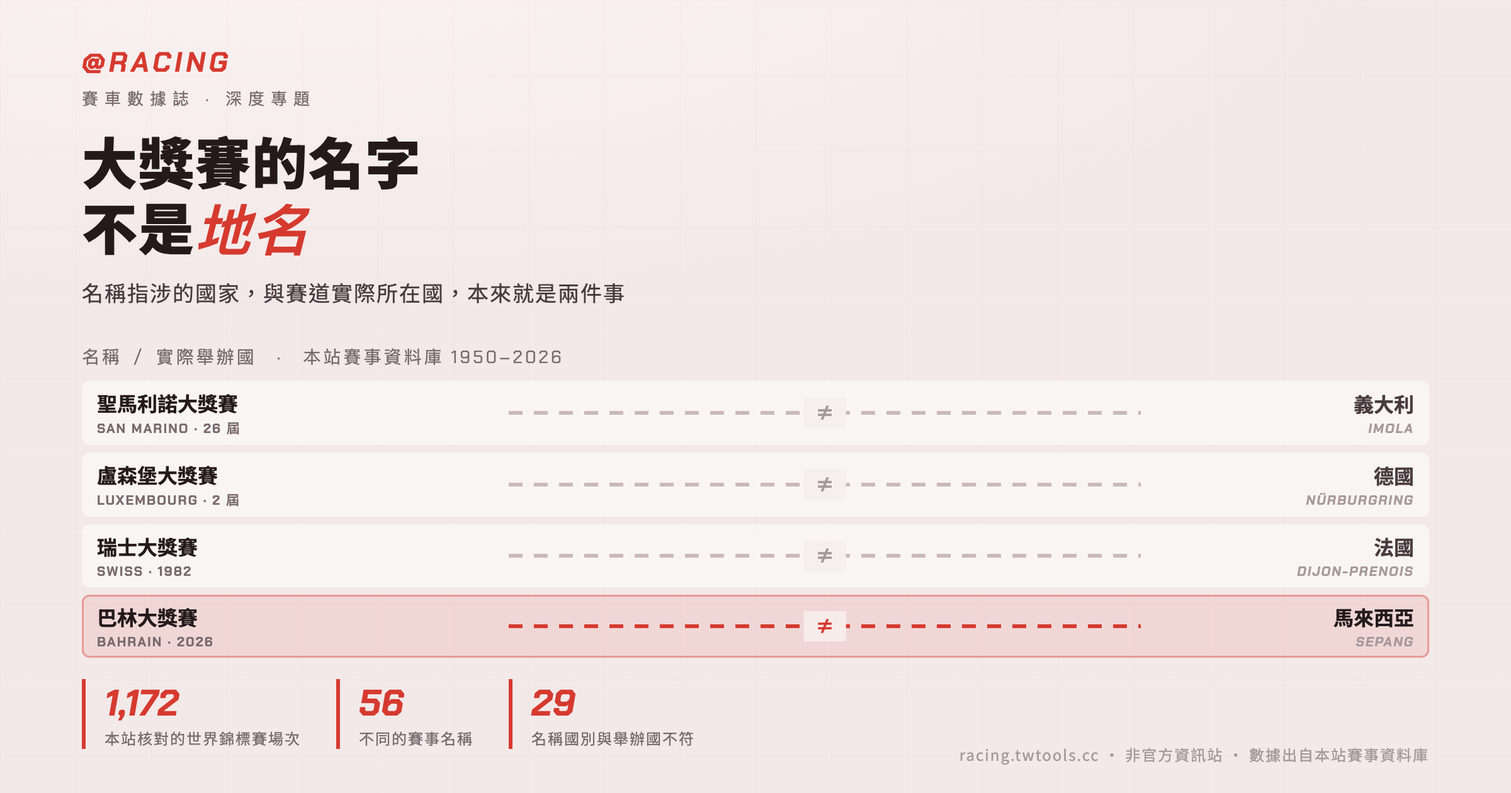
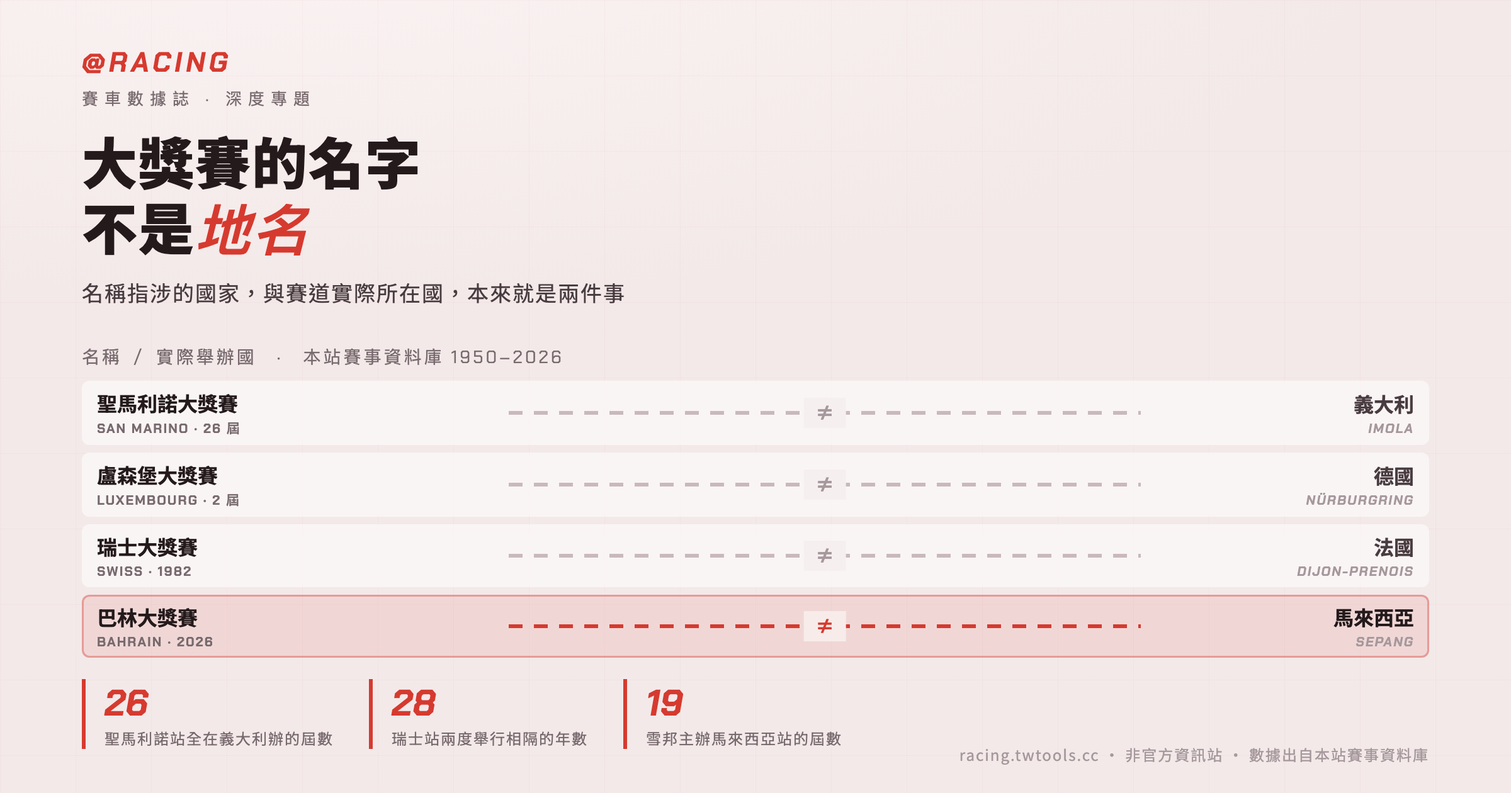
refactor(article): 改寫骨架——從「糾正外電」改為「名實脫鉤的三種機制」
Charlie 退回 v1：不要花大篇幅說別人錯我們對，那像是逮到啥就無限放大的博主；
要的是單純的介紹與特色、值得保存反覆細讀的文章。

**根因在派工層不在改稿層。** v1 的 facts pack 我把 thesis 寫成「指出外電錯在哪」，
標題就是「外電說這是史上頭一遭，本站查了 1,172 場比賽發現不是」，還開了一節叫
「外電說史無前例，錯在哪」。寫手照著做完全正確——骨架是在寫 facts pack 那一刻決定的。

v2 骨架（facts pack 同步改為 revision 2）：賽事名稱與舉辦地脫鉤有三種機制，各給原因。
① 同一國辦兩場、第二場得改名——聖馬利諾（義大利站在蒙札，伊莫拉 1980 辦過義大利站、
   1981 義大利站回蒙札後需另找名字）／盧森堡（德國站在霍根海姆，紐柏林離盧森堡邊界約
   80 公里）／歐洲大獎賽（以洲命名，23 屆散落 4 國 6 條賽道）／2020 年最集中（義 3 場、
   奧英各 2 場且是同一條賽道連辦——可見這套慣例對應場次不是地點）
② 本國禁賽、賽事出境——瑞士站，1955 利曼事故後瑞士國會禁止境內賽道賽車
③ 整份合約跨國移動——2026 巴林站
再回到雪邦本身：19 屆、為什麼走、怎麼回來。賽道技術特徵留給 9 月賽前前瞻。

「這是第一次」全文只出現一次、中性陳述、不進標題不開專節；**全文「外電」出現 0 次**。

機械對帳 12/12（含新查證項目全部從 jolpica 全史資料重算）：
☠ 抓到事實錯誤「瑞士站一停就是二十七年」——錦標賽層級是 1954→1982＝28 年，
   而且 1975 年在同一條第戎賽道辦過一屆**非錦標賽**的瑞士大獎賽（瑞士汽車俱樂部主辦、
   目的是推動解禁）。已改寫，並把 1975 那屆寫進正文，當作「本站資料庫只涵蓋世界錦標賽」
   的具體範例——主寫自評最弱的一節，補完後反而成了說明資料邊界的好材料。
- 該節原本只靠維基，已補第二、三個獨立來源；用字採「禁止賽道賽車」而非「禁止所有賽車」
- 薩克希爾站「同一座賽道不同配置」原為無源主張，已補 formula1.com 官方文章並寫明是外圈
- Clay Regazzoni 無核准譯名 → 依站規誠實 fallback 只留原文不硬翻
- 連結 16 條 curl 逐條驗全部 200（check-links 因本機 TLS 攔截誠實回報「檢查無效」）

⚠ 封面連動：初版三格是 1,172／56／29，那是糾正稿框架的數字，v2 正文不再出現、
check-covers 當場會擋。已改為 26（聖馬利諾全在義大利的屆數）／28（瑞士站相隔年數）／
19（雪邦屆數）。**改文章骨架時封面數字要一起重選，這是同一件事的兩面。**

⛔ 仍是草稿，draft-exclude 生效、build 實測 skip。第 ④ 步 Charlie cross-check 未過。

Changed region(s): [[0.0625, 0.8667, 0.5625, 0.9595]]

diff --git a/design/covers/cover-bahrain-in-malaysia.html b/design/covers/cover-bahrain-in-malaysia.html
@@ -81,10 +81,14 @@ h1 { font-size: 88px; margin-top: 28px; }
         <div class="vn">馬來西亞<i>SEPANG</i></div>
       </div>
     </div>
+    <!-- ⚠ check-covers 是 default-deny：封面上每個可見數字都必須在正文出現。
+         初版這三格是 1,172／56／29（本站核對場次／賽事名稱種數／名實不符場次），
+         那是「糾正外電」框架下的數字；改稿把骨架換成三種機制後，正文不再出現這三個數，
+         gate 當場會擋。**改文章骨架時封面數字要一起重選**，這是同一件事的兩面。 -->
     <div class="stats">
-      <div class="stat"><b>1,172</b><span>本站核對的世界錦標賽場次</span></div>
-      <div class="stat"><b>56</b><span>不同的賽事名稱</span></div>
-      <div class="stat"><b>29</b><span>名稱國別與舉辦國不符</span></div>
+      <div class="stat"><b>26</b><span>聖馬利諾站全在義大利辦的屆數</span></div>
+      <div class="stat"><b>28</b><span>瑞士站兩度舉行相隔的年數</span></div>
+      <div class="stat"><b>19</b><span>雪邦主辦馬來西亞站的屆數</span></div>
     </div>
   </div>
   <div class="foot">racing.twtools.cc ・ 非官方資訊站 ・ 數據出自本站賽事資料庫</div>

diff --git a/articles/f1-2026-bahrain-gp-in-malaysia/index.md b/articles/f1-2026-bahrain-gp-in-malaysia/index.md
@@ -2,85 +2,83 @@
 slug: f1-2026-bahrain-gp-in-malaysia
 type: "feature"
 date: "2026-08-01"
-title: "巴林大獎賽辦在雪邦：外電說這是史上頭一遭，本站查了 1,172 場比賽發現不是"
-subtitle: "2026 年 10 月，巴林大獎賽（Bahrain Grand Prix）將移師馬來西亞雪邦國際賽道（Sepang International Circuit）舉行，官方全稱寫成「Formula 1 Gulf Air Bahrain Grand Prix in Malaysia」。多數外電說這是 F1 史上第一次把大獎賽名稱與實際地理位置分開。本站查了自有資料庫裡 1950 年至今的 1,172 場世界錦標賽賽事、56 種賽事名稱，找到至少 29 場「名不符實」的先例：聖馬利諾大獎賽辦了 26 屆全部在義大利、盧森堡大獎賽 2 屆全部在德國、1982 年瑞士大獎賽辦在法國。本文說明外電的最高級表述錯在哪，以及這一站真正史無前例的地方是什麼。"
-lede: "F1 大獎賽的名字從來就不是地名，而是一份商業契約的標籤——這份契約過去換過賽道，這次是連付錢、收錢、掛名這三個角色的國籍都不一樣了。"
+title: "大獎賽的名字，不是地名：F1 名實脫鉤的三種方式"
+subtitle: "2026 年 10 月，巴林大獎賽（Bahrain Grand Prix）將移師馬來西亞的雪邦國際賽道（Sepang International Circuit）舉行，官方全稱寫成「Formula 1 Gulf Air Bahrain Grand Prix in Malaysia」。這聽起來像個特例，其實不是。一場比賽的名字，從來就不等於它辦在哪裡，F1 史上至少有三種讓兩者脫鉤的機制，各自有各自的原因。本文逐一講清楚這三種機制，再回頭講雪邦這條賽道離開九年、又是怎麼回來的。"
+lede: "同一個名字可以借給不同的賽道用，同一條賽道也可以換好幾個名字用——這套彈性從 1980 年代就存在，2026 巴林這一站，只是其中一種機制最新的一次示範。"
 ---
 
-# 巴林大獎賽辦在雪邦：外電說這是史上頭一遭，本站查了 1,172 場比賽發現不是
+# 大獎賽的名字，不是地名：F1 名實脫鉤的三種方式
 
 2026 年 10 月 2 日到 4 日，一場叫做「巴林大獎賽」的比賽，會在馬來西亞的雪邦國際賽道（Sepang International Circuit）舉行。官方公告給的全稱是「Formula 1 Gulf Air Bahrain Grand Prix in Malaysia」，一個名字裡塞了兩個國家。
 
-外電的寫法幾乎一致：這是 F1 史上第一次把大獎賽的名稱跟它的實際地理位置分開。這句話讀起來很有力，但本站查了自己的賽事資料庫後，發現它是錯的。名實分離早就發生過，而且不只一次。真正沒發生過的是另一件事——本文會把兩者分開講清楚。
+乍看是件怪事，但把 F1 賽曆從 1950 年翻到現在，會發現「賽事名稱」跟「賽事實際辦在哪裡」本來就是兩條不一定重疊的線。讓兩者脫鉤的機制，本站整理出三種：同一國辦兩場時，第二場得換名字；本國禁止賽車時，賽事出境舉辦；以及這一次——整份合約跨國移動。三種機制各自有各自的理由，2026 年的巴林站是第三種目前唯一的例子。本文照順序講完這三種，再回頭談雪邦這條賽道本身，離開九年是為什麼、這次又是怎麼回來的。
 
 ## 查證範圍聲明
 
-這篇文章混用兩種完全不同性質的資料，讀者有必要先知道哪些是本站可以自己複查的，哪些不行。
+這篇文章混用兩種性質不同的資料，讀者有必要先知道哪些是本站可以自己複查的，哪些不行。
 
-先例統計那一段，本站用自有賽事資料庫（Ergast 相容公開 API，jolpica-f1）逐場核對，方法與母體都寫在下一節，讀者可以拿同一組資料重算一遍。雪邦承辦屆數、賽曆位置這類數字也屬於這一類。
+三種機制底下列出的屆數、賽道、賽曆位置，都是本站用自有賽事資料庫（Ergast 相容公開 API，jolpica-f1）逐場核對得出，讀者可以拿同一組公開資料重算一遍。雪邦承辦馬來西亞大獎賽的屆數與 2026 賽曆位置，也屬於這一類。
 
-移師巴林站的決策本身、金流安排、贊助合約條款，全部只能來自官方公告與媒體報導，本站沒有管道獨立核實。這部分每一條都會標出處，查不到的地方會直接寫查不到，不會用推論去填補。
+至於巴林站為什麼會移師、命名慣例背後的規則是否真的存在、金流怎麼安排、贊助合約條款、雪邦當年離開賽曆的具體原因，這些全部只能來自官方公告與媒體報導，本站沒有管道獨立核實。每一條會標出處，查不到的地方會直接寫查不到。
 
-## 官方說了什麼，還有什麼沒說
+## 機制一：同一國辦兩場，第二場得換名字
 
-根據 formula1.com 的官方公告，F1 與 FIA 確認雪邦國際賽道將加入 2026 賽曆，做為巴林大獎賽的承辦場地，賽期為 2026 年 10 月 2 日至 4 日，排在亞塞拜然大獎賽與新加坡大獎賽之間。
+一個常被提起、但很難找到白紙黑字條文的慣例是：同一個國家在同一年辦兩場以上比賽時，只有一場能用該國國名，其餘必須另外命名。這條慣例在不少公開資料裡被說成是 F1 或 FIA 的規定，但本站沒有找到對應的一手規則條文可以核對。因此以下只陳述可以觀察到的結果——同一國的第二場比賽一律改名，而且改名的邏輯高度一致——不替它掛上「FIA 規定」這種機構斷言。
 
-公告裡具名的發言者包括多梅尼卡利（Stefano Domenicali, President and CEO of Formula 1）、本・蘇拉耶姆（Mohammed Ben Sulayem, President of the FIA）、巴林皇儲兼首相沙爾曼親王殿下（His Royal Highness Prince Salman bin Hamad Al Khalifa）、馬來西亞總理安華（Dato' Seri Anwar Ibrahim, Prime Minister of Malaysia）。官方給的理由只有一句，原文是「allows Formula 1 to preserve a Grand Prix that would otherwise not have happened」——這是官方唯一公開講出的動機，本站不替它多加解讀。
+最有名的例子是聖馬利諾大獎賽（San Marino Grand Prix）。這場比賽從 1981 年辦到 2006 年，一共 26 屆，賽道全部是義大利的伊莫拉賽道（Autodromo Enzo e Dino Ferrari），從未踏進聖馬利諾境內一次。原因要回到義大利大獎賽本身：它的傳統家在蒙札（Monza），1980 年義大利站曾臨時移到伊莫拉，1981 年義大利站回到蒙札，但伊莫拉想繼續留在賽曆上，就需要另一個名字——於是借了鄰近的聖馬利諾共和國。一借就是二十六年。
 
-有一個但書必須寫在前面：這項安排目前仍待最終協議與世界汽車運動理事會（WMSC，World Motor Sport Council）的正式批准。截至本文查證日，WMSC 尚未批准。也就是說，這篇文章講的整件事，法律上還沒拍板。
+盧森堡大獎賽（Luxembourg Grand Prix）是同一套邏輯的另一次示範。1997 與 1998 兩屆，賽道都是德國的紐柏林（Nürburgring）。當時德國大獎賽的固定場地是霍根海姆（Hockenheimring），紐柏林要辦比賽就得另找名字，而紐柏林距離德國與盧森堡邊界只有大約 80 公里，於是借用了盧森堡。有意思的是紐柏林在更早的 1995、1996 年用的是「歐洲大獎賽」之名，1997 年這個名字被改給了西班牙的赫雷斯（Jerez）——同一條賽道，換過不只一次身分。
 
-## 外電說「史無前例」，錯在哪
+歐洲大獎賽（European Grand Prix）本身則是這套機制裡最通用的一張牌。它以洲名命名，不綁定任何單一國家，1983 到 2016 年一共辦了 23 屆，賽道散落在英國的布蘭茲哈奇（Brands Hatch）2 屆、德國紐柏林 12 屆、英國唐寧頓公園（Donington Park）1 屆、西班牙赫雷斯 2 屆、西班牙瓦倫西亞（Valencia）5 屆、亞塞拜然巴庫城市賽道（Baku City Circuit）1 屆，橫跨 4 個國家 6 條賽道。名字不指涉具體地點，去哪裡辦都能用。
 
-外電普遍寫的是「F1 史上第一次把大獎賽與地理位置分開」。這句話錯在把一個罕見的操作寫成了獨一無二的操作。
+這套命名機制哪一年表現得最集中，答案是 2020 年。疫情打亂了原本的賽曆，多個國家同一年被迫辦兩場以上，改名邏輯一次攤開來看得最清楚：義大利辦了 3 場——義大利大獎賽在蒙札、托斯卡尼大獎賽在穆傑羅（Mugello）、艾米利亞羅馬涅大獎賽在伊莫拉；奧地利辦了 2 場——奧地利大獎賽與施蒂利亞大獎賽，同一條紅牛環（Red Bull Ring）；英國辦了 2 場——英國大獎賽與 70 週年紀念大獎賽，同一條銀石賽道（Silverstone）；巴林辦了 2 場——巴林大獎賽與薩克希爾大獎賽（Sakhir Grand Prix），同一座賽道的不同配置，後者用的是官方稱為外圈（Outer Circuit）的短版路線。連同一條賽道連辦兩場都照樣要換名字，說明這套命名慣例對應的其實是「場次」，不是「地點」。
 
-本站用自有賽事資料庫查了 1950 年至今全部世界錦標賽賽事，總共 1,172 場、56 種不同的賽事名稱，逐場比對「賽事名稱指涉的國家」與「賽道實際所在國」是否一致，查證日 2026 年 8 月 1 日。這個母體與方法讀者可以自己用同一組公開資料重算。
+## 機制二：本國禁止賽車，賽事出境
 
-結果是：名稱國別與舉辦國不符的先例至少有 29 場。
+瑞士大獎賽（Swiss Grand Prix）是另一種脫鉤方式，而且是三種機制裡最戲劇性的一個。
 
-聖馬利諾大獎賽（San Marino Grand Prix）辦了 26 屆，1981 到 2006 年，賽道是義大利的伊莫拉賽道（Autodromo Enzo e Dino Ferrari），26 屆全部在義大利舉行，從未踏進聖馬利諾境內一次。盧森堡大獎賽（Luxembourg Grand Prix）辦了 2 屆，1997 與 1998 年，賽道是德國的紐柏林（Nürburgring），2 屆全部在德國。瑞士大獎賽（Swiss Grand Prix）辦了 6 屆，其中 1950 到 1954 年的 5 屆在瑞士的布雷姆加藤賽道（Circuit Bremgarten），1982 年那一屆改到法國第戎（Dijon-Prenois）舉行——這是離這次巴林情況最接近的先例：一個有真實國家身分的大獎賽，被搬到別的國家去辦。
+這場比賽一共辦過 6 屆。1950 到 1954 年的 5 屆，辦在伯恩的布雷姆加藤賽道（Circuit Bremgarten），賽事本身、賽道、國家三者一致，沒有任何特殊之處。1982 年的第 6 屆不一樣，辦在法國的第戎-普雷努瓦賽道（Dijon-Prenois）。
 
-把這三組加起來：26（聖馬利諾）加 2（盧森堡）加 1（1982 年瑞士）等於 29。
+原因是一場發生在法國的災難。1955 年利曼耐力賽（Le Mans）發生嚴重事故，造成大量觀眾傷亡。這起事故之後，瑞士國會禁止在瑞士境內舉行賽道賽車，瑞士大獎賽因此失去了在本國舉辦的可能。
 
-另外還有兩組不計入這 29 場，因為它們的名稱本來就不指涉單一國家，性質不同：歐洲大獎賽（European Grand Prix）以洲名命名，1983 到 2016 年辦了 23 屆，散落在英國、德國、西班牙、亞塞拜然 4 個國家 6 條賽道；太平洋大獎賽（Pacific Grand Prix）以海域命名，1994、1995 兩屆都在日本的岡山國際賽道（Okayama International Circuit）舉行。這兩組如果拿來跟聖馬利諾、盧森堡、瑞士並列計算，會混淆「名稱本身就是區域名」和「名稱是一個具體國家卻辦到別國」這兩種不同的錯位，所以本文把它們分開列，不算進 29 場裡。
+中間還有一段本站資料庫看不到的插曲。1975 年，同樣在第戎-普雷努瓦賽道，辦過一屆瑞士大獎賽，由瑞士汽車俱樂部主辦，用意之一是推動瑞士政府解除禁令，最後由瑞士車手 Clay Regazzoni 奪冠——瑞士的大獎賽、瑞士的主辦單位、瑞士的冠軍，就是不能在瑞士辦。但那一場不列入世界錦標賽，所以不在本站的賽事資料庫裡。本站所有統計一律只涵蓋世界錦標賽賽事，這是它的邊界，也是讀者複查時要留意的地方。
 
-那麼可以支撐的「第一次」是什麼。就本站資料庫涵蓋、1950 年以來的世界錦標賽賽事而言，正式名稱同時寫出兩個地名（Bahrain 與 Malaysia 並列在同一個賽事名稱裡）的，這確實是第一次。這個範圍限定很重要——本站只查得到世界錦標賽等級的賽事，範圍之外是否有先例，本站沒有查證，不做斷言。
+列入世界錦標賽的瑞士大獎賽，1954 年之後要等到 1982 年才又辦了一屆，前後相隔 28 年，地點同樣是靠近瑞士邊界的法國第戎，由瑞士汽車俱樂部與賽道方合作促成。這道禁令延續得很長，直到 2018 年電動方程式（Formula E）在蘇黎世舉行街道賽，瑞士本土才重新有了賽道賽事。
 
-## 真正史無前例的地方：契約本身跨了國
+這種脫鉤方式跟後面要講的巴林狀況表面相似，實質不同：瑞士是本國辦不了，巴林是本國這一年辦不成。前者是禁令，是一道長期關閉的門；後者留在下一節講。
 
-名實分離不是新鮮事，那什麼才是。
+## 機制三：整份合約跨國移動——2026 巴林大獎賽
 
-答案在錢怎麼流。根據馬來西亞媒體 Free Malaysia Today 的報導，巴林方拿走這一站的全部收益，馬來西亞只負擔在地籌辦成本。這一條是媒體轉述，F1 與巴林官方都沒有公開證實合約條款，本文只能標出處，無法獨立核實。
+前兩種機制動的都是「名字」或「場地」：借一個鄰國名字留住席次，或者本國禁賽就把比賽搬到國外。2026 巴林大獎賽動的是另一個層次——整份合約本身。
 
-根據馬來西亞科技媒體 soyacincau 的報導（Malay Mail 亦有轉載），巴林方要負擔主辦費用，媒體估計在 7,000 萬至 8,000 萬美元之間。這是媒體估值，不是官方公布的確定數字，本文照原樣寫成區間，不換算成新台幣，也不取整成單一數字——那樣做只會製造一個看起來精確、實際上查無出處的假數字。
+根據 formula1.com 的官方公告，F1 與 FIA 確認雪邦國際賽道將加入 2026 賽曆，作為巴林大獎賽的承辦場地，賽期是 2026 年 10 月 2 日至 4 日，排在亞塞拜然大獎賽與新加坡大獎賽之間。公告裡具名的發言者包括多梅尼卡利（Stefano Domenicali, President and CEO of Formula 1）、本・蘇拉耶姆（Mohammed Ben Sulayem, President of the FIA）、巴林皇儲兼首相沙爾曼親王殿下（His Royal Highness Prince Salman bin Hamad Al Khalifa）、馬來西亞總理安華（Dato' Seri Anwar Ibrahim, Prime Minister of Malaysia）。官方給的理由只有一句，原文是「allows Formula 1 to preserve a Grand Prix that would otherwise not have happened」——這是官方唯一公開講出的動機，本站不替它多加解讀。
 
-冠名贊助商仍是巴林國家航空 Gulf Air，維持不變。根據 Gulf Air 官方社群公告與馬來西亞媒體 The Star 的報導，雙方規劃在賽前開通巴林與吉隆坡之間的直航。這一條的措辭要留餘地——目前是「規劃中」，不是已經確定的航班時刻表。
+有個但書必須寫在前面：這項安排目前仍待最終協議與世界汽車運動理事會（WMSC，World Motor Sport Council）的正式批准。截至本文查證日，WMSC 尚未批准，整件事法律上還沒拍板。
 
-把這三件事擺在一起看，圖像就出來了。過去聖馬利諾站、盧森堡站、1982 年瑞士站，換的只是賽道，掛名的國家、收錢的主辦方，邏輯上仍是同一套。這一次不一樣的地方是：付錢的是巴林，收錢主辦的實體是巴林，出場地、出人力籌辦的是馬來西亞，三個角色的國籍第一次不重疊。契約本身變成了可以跨國移動的東西，這才是本文認為真正值得記一筆的地方，而不是名字裡多寫了一個國家。
+那麼跨國移動的具體樣貌是什麼。根據馬來西亞媒體 Free Malaysia Today 的報導，巴林方拿走這一站的全部收益，馬來西亞只負擔在地籌辦成本。這一條是媒體轉述，F1 與巴林官方都沒有公開證實合約條款，本文只能標出處，無法獨立核實。根據馬來西亞科技媒體 soyacincau 的報導，巴林方要負擔的主辦費用，媒體估計在 7,000 萬至 8,000 萬美元之間——這是媒體估值，不是官方公布的確定數字，本文照原樣寫成區間，不換算成新台幣，也不取整成單一數字，那樣做只會製造一個看起來精確、實際上查無出處的假數字。冠名贊助商仍是巴林國家航空 Gulf Air，維持不變；根據 Gulf Air 官方社群公告與馬來西亞媒體 The Star 的報導，雙方規劃在賽前開通巴林與吉隆坡之間的直航，這一條目前是規劃中，還不是確定的航班時刻表。
+
+把三件事擺在一起看：付主辦費的是巴林，取得收益的是巴林，冠名掛的也是巴林，出場地與在地籌辦人力的是馬來西亞。巴林並非不能辦這場比賽，是這一年辦不成，於是把整份合約——連同它的收益結構、冠名權、贊助關係——一起搬到另一個國家去執行。就本站資料庫涵蓋、1950 年以來的世界錦標賽賽事而言，正式名稱同時寫出兩個地名的做法，這是第一次——但也只是前面三種脫鉤機制裡最新出現的一種。
 
 ## 雪邦重返賽曆
 
-雪邦國際賽道對 F1 並不陌生。根據本站賽事資料庫，雪邦曾在 1999 到 2017 年間主辦馬來西亞大獎賽，一共 19 屆。2017 年之後雪邦沒有再出現在 F1 賽曆上，直到 2026 年這一站才重新回歸——只是掛的不是馬來西亞大獎賽的名字，而是巴林大獎賽。
+雪邦國際賽道對 F1 並不陌生。根據本站賽事資料庫，雪邦曾在 1999 到 2017 年間主辦馬來西亞大獎賽，一共 19 屆。
 
-這一站在 2026 年賽曆上排在第 16 站（R16），前一站是 9 月 26 日的亞塞拜然大獎賽，後一站是 10 月 11 日的新加坡大獎賽。2026 賽季原本公布的是 24 站，目前實際是 23 站——巴林站與沙烏地阿拉伯大獎賽在 2026 年 3 月因中東情勢，被宣布不在原定的 4 月舉行，其後巴林站以本文講的這個安排回歸賽曆，沙烏地站則沒有再被排入。
+它離開賽曆的原因，公開報導提到的有兩個方向。一是成本：馬來西亞方面每年為此支出約 3 億令吉，卻難以回收，這是媒體報導的數字，官方未曾公布對應的確切金額。二是觀眾：雪邦可容納約 12 萬人，2016 年那一站進場人數約 4.5 萬，區域觀眾的關注也在同一時期轉向鄰近的新加坡夜間街道賽。原本的合約可以辦到 2018 年，實際在 2017 年就提前結束了。
 
-## 三月那次，是取消還是延期
+2026 年這一站，雪邦排在賽曆第 16 站（R16），前一站是 9 月 26 日的亞塞拜然大獎賽，後一站是 10 月 11 日的新加坡大獎賽。2026 賽季原本公布的是 24 站，目前實際是 23 站——巴林站與沙烏地阿拉伯大獎賽在 2026 年 3 月因中東情勢，被宣布不在原定的 4 月舉行，其後巴林站以本文前面講的這個安排回歸賽曆，沙烏地站則沒有再被排入。雪邦重新出現在賽曆上，但掛的不是它熟悉的馬來西亞大獎賽這個名字，而是巴林大獎賽。至於賽道本身的彎角配置、氣候條件、2026 年新規則對它的影響，留給賽前另一篇前瞻文章處理，本文只講回歸的來龍去脈。
 
-2026 年 3 月對巴林站與沙烏地站的處置，媒體的用字彼此不一致，本文不替它們裁決。
+## 三月那次的處置，用字沒有定論
 
-Sky Sports 當時的報導用的是「取消」（cancellation），並寫賽曆因此縮減為 22 站。英文維基百科「2026 Bahrain and Saudi Arabian Grands Prix」條目採用的是「延期」（postponement）。而 formula1.com 官方當時公告的標題用字，其實兩個詞都沒有用，寫的是「will not take place in April」，也就是不會在 4 月舉行。
-
-依照本站對外部來源文的規範，媒體彼此矛盾時兩邊都寫出來，不由本站判斷哪一邊用詞更準確。本文採用官方那句中性表述——不在原定的 4 月舉行。這個分歧本身也值得寫出來當一個觀察：巴林站最終以移師馬來西亞的形式回到賽曆，這件事本身說明當時的處置並不是不可逆的，不管當初該叫取消還是延期，它都沒有真的結束。
-
-至於巴林為什麼願意付錢，把自己名下的大獎賽辦到另一個國家去，官方公告只給了前面那句「保住一場原本辦不成的比賽」，沒有進一步說明動機。本站沒有查到任何一手來源談這背後的考量，這裡選擇不猜，留白比硬填一個聽起來合理的理由更誠實。
+2026 年 3 月，巴林站與沙烏地站被宣布不在原定的 4 月舉行，媒體在事後怎麼稱呼這次處置，用字並不一致，本站不替它們裁決。Sky Sports 當時用的是「取消」（cancellation），並寫賽曆因此縮減為 22 站；英文維基百科同一事件的條目用的是「延期」（postponement）；而 formula1.com 官方公告的標題，兩個詞都沒有用，寫的是「will not take place in April」。本文採用官方那句中性表述。這個分歧本身也是一個可以觀察的事實：巴林站最終以移師馬來西亞的形式回到了賽曆，說明當時的處置並不是不可逆的，不管當初該叫取消還是延期，這件事都沒有真的結束在那裡。
 
 ## 資料來源
 
-一手文件：無（本文無 FIA 規則等一手文件可供核對）。
+一手文件：無（本文無 FIA 規則等一手文件可供核對；「同一國第二場需改名」的慣例查無對應一手條文，正文已註明）。
 
-官方說明：formula1.com 官方公告［F1 and FIA confirm Malaysia will join 2026 calendar as host venue for Bahrain Grand Prix］（[連結](https://www.formula1.com/en/latest/article/formula-1-and-fia-confirm-malaysia-will-join-2026-calendar-as-host-venue-for-bahrain-grand-prix.6lL7vjFEM2VVynRHvg1TCf)）；formula1.com 官方公告［Bahrain and Saudi Arabian Grands Prix will not take place in April］（[連結](https://www.formula1.com/en/latest/article/bahrain-and-saudi-arabian-grands-prix-will-not-take-place-in-april.1hnqllVG85RSt8pbFc5Ivx)）。
+官方說明：formula1.com 官方公告［F1 and FIA confirm Malaysia will join 2026 calendar as host venue for Bahrain Grand Prix］（[連結](https://www.formula1.com/en/latest/article/formula-1-and-fia-confirm-malaysia-will-join-2026-calendar-as-host-venue-for-bahrain-grand-prix.6lL7vjFEM2VVynRHvg1TCf)）；formula1.com［F1 to use Bahrain's high-speed 'outer track' for 2020 Sakhir Grand Prix］（[連結](https://www.formula1.com/en/latest/article/f1-to-use-bahrains-high-speed-outer-track-for-sakhir-grand-prix.6niLbb2btc0IrscR1BMpx8)）；formula1.com 官方公告［Bahrain and Saudi Arabian Grands Prix will not take place in April］（[連結](https://www.formula1.com/en/latest/article/bahrain-and-saudi-arabian-grands-prix-will-not-take-place-in-april.1hnqllVG85RSt8pbFc5Ivx)）。
 
-媒體報導：Free Malaysia Today［Bahrain to receive all proceeds from F1 race in Sepang］（[連結](https://www.freemalaysiatoday.com/category/nation/2026/07/28/bahrain-to-receive-all-proceeds-from-f1-race-in-sepang)）；soyacincau［Formula 1 is officially back in Malaysia, but here's the real deal］（[連結](https://soyacincau.com/2026/07/28/formula-1-is-officially-back-in-malaysia-but-heres-the-real-deal/)）；The Star［Gulf Air set to connect Bahrain-Malaysia ahead of F1 Grand Prix at SIC］（[連結](https://www.thestar.com.my/news/nation/2026/07/27/gulf-air-set-to-connect-bahrain-malaysia-ahead-of-f1-grand-prix-at-sic)）；Sky Sports［F1 confirms cancellation of Bahrain and Saudi Arabian Grands Prix］（[連結](https://www.skysports.com/f1/news/12433/13519453/f1-confirms-cancellation-of-bahrain-and-saudi-arabian-grands-prix-due-to-war-in-middle-east-as-2026-calendar-reduced-to-22-races)）；英文維基百科條目［2026 Bahrain and Saudi Arabian Grands Prix］（[連結](https://en.wikipedia.org/wiki/2026_Bahrain_and_Saudi_Arabian_Grands_Prix)）。
+媒體報導：Free Malaysia Today［Bahrain to receive all proceeds from F1 race in Sepang］（[連結](https://www.freemalaysiatoday.com/category/nation/2026/07/28/bahrain-to-receive-all-proceeds-from-f1-race-in-sepang)）；soyacincau［Formula 1 is officially back in Malaysia, but here's the real deal］（[連結](https://soyacincau.com/2026/07/28/formula-1-is-officially-back-in-malaysia-but-heres-the-real-deal/)）；The Star［Gulf Air set to connect Bahrain-Malaysia ahead of F1 Grand Prix at SIC］（[連結](https://www.thestar.com.my/news/nation/2026/07/27/gulf-air-set-to-connect-bahrain-malaysia-ahead-of-f1-grand-prix-at-sic)）；Sky Sports［F1 confirms cancellation of Bahrain and Saudi Arabian Grands Prix］（[連結](https://www.skysports.com/f1/news/12433/13519453/f1-confirms-cancellation-of-bahrain-and-saudi-arabian-grands-prix-due-to-war-in-middle-east-as-2026-calendar-reduced-to-22-races)）；英文維基百科條目［2026 Bahrain and Saudi Arabian Grands Prix］（[連結](https://en.wikipedia.org/wiki/2026_Bahrain_and_Saudi_Arabian_Grands_Prix)）、［1981 San Marino Grand Prix］（[連結](https://en.wikipedia.org/wiki/1981_San_Marino_Grand_Prix)）、［1997 Luxembourg Grand Prix］（[連結](https://en.wikipedia.org/wiki/1997_Luxembourg_Grand_Prix)）、［Luxembourg Grand Prix］（[連結](https://en.wikipedia.org/wiki/Luxembourg_Grand_Prix)）、［1982 Swiss Grand Prix］（[連結](https://en.wikipedia.org/wiki/1982_Swiss_Grand_Prix)）、［1975 Swiss Grand Prix］（[連結](https://en.wikipedia.org/wiki/1975_Swiss_Grand_Prix)）、［Swiss Grand Prix］（[連結](https://en.wikipedia.org/wiki/Swiss_Grand_Prix)）；ESPN Africa［Malaysia drop Formula 1 race］（[連結](https://africa.espn.com/f1/story/_/id/17874259/malaysia-drop-formula-1-race)）；Malay Mail［No more F1 in Malaysia after 2018, minister confirms］（[連結](https://www.malaymail.com/news/malaysia/2016/11/21/no-more-f1-in-malaysia-after-2018-minister-confirms/1255079)）。
 
-本站自有資料：本站賽事資料庫（Ergast 相容公開 API，jolpica-f1），1950 年至 2026 年全部世界錦標賽賽事，1,172 場、56 種賽事名稱的名實比對，含雪邦承辦馬來西亞大獎賽 19 屆的紀錄；另見本站[各站賽果](/results/)。
+本站自有資料：本站賽事資料庫（Ergast 相容公開 API，jolpica-f1），1950 年至 2026 年全部世界錦標賽賽事的名稱與舉辦地比對，含聖馬利諾、盧森堡、歐洲大獎賽、瑞士大獎賽、2020 賽季各站，以及雪邦承辦馬來西亞大獎賽 19 屆、2026 賽曆位置的紀錄；另見本站[各站賽果](/results/)。
 
-查證日 2026-08-01。本站為非官方資訊站，先例統計部分讀者可自行以同一組公開資料複查；移師決定、金流安排、贊助合約等外部來源部分，本站沒有管道獨立核實，僅能忠實轉述並標明出處，讀者請自行留意這是媒體轉述而非本站查證結果。
+查證日 2026-08-01。本站為非官方資訊站，三種機制底下的屆數、賽道、賽曆位置讀者可自行以同一組公開資料複查；移師決定、命名慣例的法源、金流安排、贊助合約、雪邦離開賽曆的具體原因等外部來源部分，本站沒有管道獨立核實，僅能忠實轉述並標明出處，讀者請自行留意這是媒體轉述而非本站查證結果。
